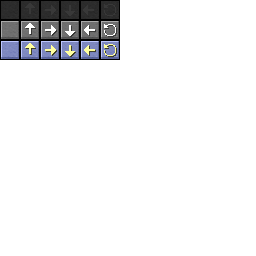
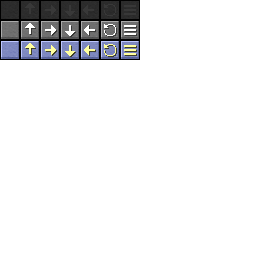
Sidebar

Changed region(s): [[0.4688, 0.0, 0.5625, 0.25]]

diff --git a/src/main/java/useless/resourceful/gui/GuiTexturePackSideBar.java b/src/main/java/useless/resourceful/gui/GuiTexturePackSideBar.java
@@ -1,0 +1,115 @@
+package useless.resourceful.gui;
+
+import net.minecraft.client.gui.GuiButton;
+import net.minecraft.client.gui.GuiScreen;
+import net.minecraft.client.gui.GuiTexturedButton;
+import net.minecraft.client.gui.options.components.OptionsComponent;
+import net.minecraft.client.gui.options.components.ShortcutComponent;
+import net.minecraft.client.gui.options.data.OptionsPages;
+import net.minecraft.client.render.Tessellator;
+import org.lwjgl.opengl.GL11;
+
+import java.util.ArrayList;
+import java.util.List;
+
+public class GuiTexturePackSideBar extends GuiScreen {
+	protected GuiButton parentButton;
+	private final int sidePadding = 4;
+	public int xSize;
+	public int ySize;
+	private OptionsComponent clickedComponent;
+	private int clickedComponentY;
+	private final List<OptionsComponent> components;
+	public GuiTexturePackSideBar(GuiScreen parent) {
+		super(parent);
+		components = new ArrayList<>(OptionsPages.TEXTURE_PACKS.getComponents());
+		for(OptionsComponent component : OptionsPages.TEXTURE_PACKS.getComponents()){
+			if (component instanceof ShortcutComponent){
+				components.remove(component);
+			}
+		}
+	}
+
+	@Override
+	public void init() {
+		xSize = width/2;
+		ySize = height;
+		super.init();
+		this.parentButton = new GuiTexturedButton(0, "/assets/resourceful/gui/packManager.png", sidePadding, 20, 120, 0, 20, 20);
+		controlList.add(parentButton);
+	}
+
+	@Override
+	protected void buttonPressed(GuiButton button) {
+		if (button.id == 0){
+			closeMenu();
+		}
+	}
+	private void closeMenu(){
+		mc.displayGuiScreen(getParentScreen());
+	}
+	@Override
+	public void drawScreen(int mouseX, int mouseY, float partialTick) {
+		this.getParentScreen().drawScreen(-1, -1, partialTick);
+		int color = this.mc.gameSettings.guiBackgroundColor.value.getARGB();
+		this.drawGradientRect(0, 0, this.width, this.height, color, color);
+		if (mc.theWorld == null) {
+			Tessellator tessellator = Tessellator.instance;
+			GL11.glBindTexture(3553, mc.renderEngine.getTexture("/gui/background.png"));
+			GL11.glColor4f(1.0f, 1.0f, 1.0f, 1.0f);
+			float f1 = 32.0f;
+			tessellator.startDrawingQuads();
+
+			tessellator.setColorOpaque_I(0x404040);
+			// Left
+			tessellator.addVertexWithUV(0.0, height, 0.0, 0.0, (float)(height) / f1);
+			tessellator.addVertexWithUV(xSize, height, 0.0, xSize / f1, (float)(height) / f1);
+			tessellator.addVertexWithUV(xSize, 0, 0.0, xSize / f1, 0);
+			tessellator.addVertexWithUV(0.0, 0, 0.0, 0.0, 0);
+
+			tessellator.draw();
+		} else {
+			this.drawRect(0, 0, xSize, height, 0x5F000000);
+		}
+		super.drawScreen(mouseX, mouseY, partialTick);
+		drawPageItems(sidePadding, parentButton.getY() + parentButton.getHeight() + 8, xSize - sidePadding * 2, mouseX, mouseY);
+		drawBox(0, 0, xSize, ySize, -6250336, 1);
+	}
+	private void drawPageItems(int x, int y, int width, int mouseX, int mouseY) {
+		int y2 = y;
+		for (OptionsComponent component : components) {
+			component.render(x, y2, width, mouseX - x, mouseY - y2);
+			y2 += component.getHeight();
+		}
+	}
+	@Override
+	public void mouseClicked(int mouseX, int mouseY, int mouseButton) {
+		if (mouseX > xSize){
+			closeMenu();
+		}
+		super.mouseClicked(mouseX, mouseY, mouseButton);
+		int componentY = parentButton.getY() + parentButton.getHeight();
+		for (OptionsComponent component : components) {
+			if (mouseX >= 0 && mouseX <= xSize && mouseY >= componentY && mouseY <= componentY + component.getHeight()) {
+				component.onMouseClick(mouseButton, 0, componentY, xSize, mouseX, mouseY - componentY);
+				this.clickedComponent = component;
+				this.clickedComponentY = componentY;
+				break;
+			}
+			componentY += component.getHeight();
+		}
+	}
+	@Override
+	public void mouseMovedOrButtonReleased(int mouseX, int mouseY, int mouseButton) {
+		super.mouseMovedOrButtonReleased(mouseX, mouseY, mouseButton);
+		int left = 0;
+		if (mouseY >= 0 && mouseY <= height && this.clickedComponent != null) {
+			if (mouseButton >= 0) {
+				this.clickedComponent.onMouseRelease(mouseButton, left, this.clickedComponentY, xSize, mouseX - left, mouseY - this.clickedComponentY);
+				this.clickedComponent = null;
+			} else {
+				this.clickedComponent.onMouseMove(left, this.clickedComponentY, xSize, mouseX - left, mouseY - this.clickedComponentY);
+			}
+		}
+	}
+}

diff --git a/src/main/java/useless/resourceful/gui/GuiMultiPack.java b/src/main/java/useless/resourceful/gui/GuiMultiPack.java
@@ -10,6 +10,7 @@ import net.minecraft.client.gui.options.data.OptionsPageRegistry;
 import net.minecraft.client.gui.options.data.OptionsPages;
 import net.minecraft.client.gui.popup.GuiPopup;
 import net.minecraft.client.gui.popup.PopupBuilder;
+import net.minecraft.client.render.Scissor;
 import net.minecraft.client.render.Tessellator;
 import net.minecraft.client.render.texturepack.TexturePack;
 import net.minecraft.core.lang.I18n;
@@ -44,6 +45,8 @@ public class GuiMultiPack extends GuiScreen {
 	protected GuiTexturedButton moveDownButton;
 	protected GuiTexturedButton togglePackButton;
 	protected GuiTexturedButton refreshPackButton;
+	protected GuiTexturedButton menuButton;
+	protected GuiTexturedButton searchButton;
 	private GuiButton pageButton;
 	GuiButton pageLeftButton;
 	GuiButton pageRightButton;
@@ -67,7 +70,7 @@ public class GuiMultiPack extends GuiScreen {
 		this.controlList.add(this.pageButton);
 		this.controlList.add(pageLeftButton);
 		this.controlList.add(pageRightButton);
-		GuiTexturedButton searchButton = new GuiTexturedButton(23, "/gui/gui.png", this.width - 20 - 4, 20, 20, 86, 20, 20);
+		searchButton = new GuiTexturedButton(23, "/gui/gui.png", this.width - 20 - sidePadding, 20, 20, 86, 20, 20);
 		this.controlList.add(searchButton);
 
 		refreshPackButton = new GuiTexturedButton(8, "/assets/resourceful/gui/packManager.png", (width + centerWidth)/2 + (width - centerWidth)/4 - 100, height - 24,100, 0, 20, 20);
@@ -88,6 +91,9 @@ public class GuiMultiPack extends GuiScreen {
 		this.controlList.add(moveDownButton);
 		this.controlList.add(togglePackButton);
 		this.controlList.add(refreshPackButton);
+
+		menuButton = new GuiTexturedButton(9, "/assets/resourceful/gui/packManager.png", sidePadding, 20, 120, 0, 20, 20);
+		this.controlList.add(menuButton);
 
 		createButtons();
 	}
@@ -167,6 +173,9 @@ public class GuiMultiPack extends GuiScreen {
 		}
 		if (button.id == 8){
 			TexturePackManager.refreshTextures(true);
+		}
+		if (button.id == 9){
+			mc.displayGuiScreen(new GuiTexturePackSideBar(this));
 		}
 		if (button.id == 20){
 			String[] buttons = new String[OptionsPageRegistry.getInstance().getPages().size()];
@@ -263,12 +272,12 @@ public class GuiMultiPack extends GuiScreen {
 
 		drawDefaultBackground();
 
-		drawStringCentered(fontRenderer, i18n.translateKey("resourceful.pack.label.available"), pageLeftButton.getX()/2, pageLeftButton.getY() + pageLeftButton.getHeight() - fontRenderer.fontHeight, 0xFFFFFF);
-		drawStringCentered(fontRenderer, i18n.translateKey("resourceful.pack.label.selected"),  width - ((width - pageRightButton.getX())/2), pageRightButton.getY() + pageRightButton.getHeight() - fontRenderer.fontHeight, 0xFFFFFF);
+		drawStringCentered(fontRenderer, i18n.translateKey("resourceful.pack.label.available"), menuButton.getX() + (pageLeftButton.getX() - (menuButton.getX()) + menuButton.getWidth())/2, pageLeftButton.getY() + pageLeftButton.getHeight() - fontRenderer.fontHeight, 0xFFFFFF);
+		drawStringCentered(fontRenderer, i18n.translateKey("resourceful.pack.label.selected"),  pageRightButton.getX() + (searchButton.getX() - (pageRightButton.getX()) + pageRightButton.getWidth())/2, pageRightButton.getY() + pageRightButton.getHeight() - fontRenderer.fontHeight, 0xFFFFFF);
 		super.drawScreen(mouseX, mouseY, partialTick);
 		this.drawStringCentered(this.fontRenderer, i18n.translateKey("gui.options.title"), this.width / 2, 5, 0xFFFFFF);
 		GL11.glEnable(3089);
-		GL11.glScissor(0, (this.height - this.bottom) * mc.resolution.scale, this.width * mc.resolution.scale, this.scrollRegionHeight * mc.resolution.scale);
+		Scissor.enable(0, top, this.width, this.scrollRegionHeight);
 		if (this.packButtons.isEmpty()) {
 			mc.fontRenderer.drawCenteredString(I18n.getInstance().translateKey("gui.options.page.texture_packs.label.no_packs"), (width - centerWidth)/4, top + 4, 0x5F7F7F7F);
 		}
@@ -288,6 +297,7 @@ public class GuiMultiPack extends GuiScreen {
 				drawBoxRoundButton(button);
 			}
 		}
+		Scissor.disable();
 	}
 	private void drawBoxRoundButton(GuiButton button){
 		int color = 0xFFFFFFFF;
